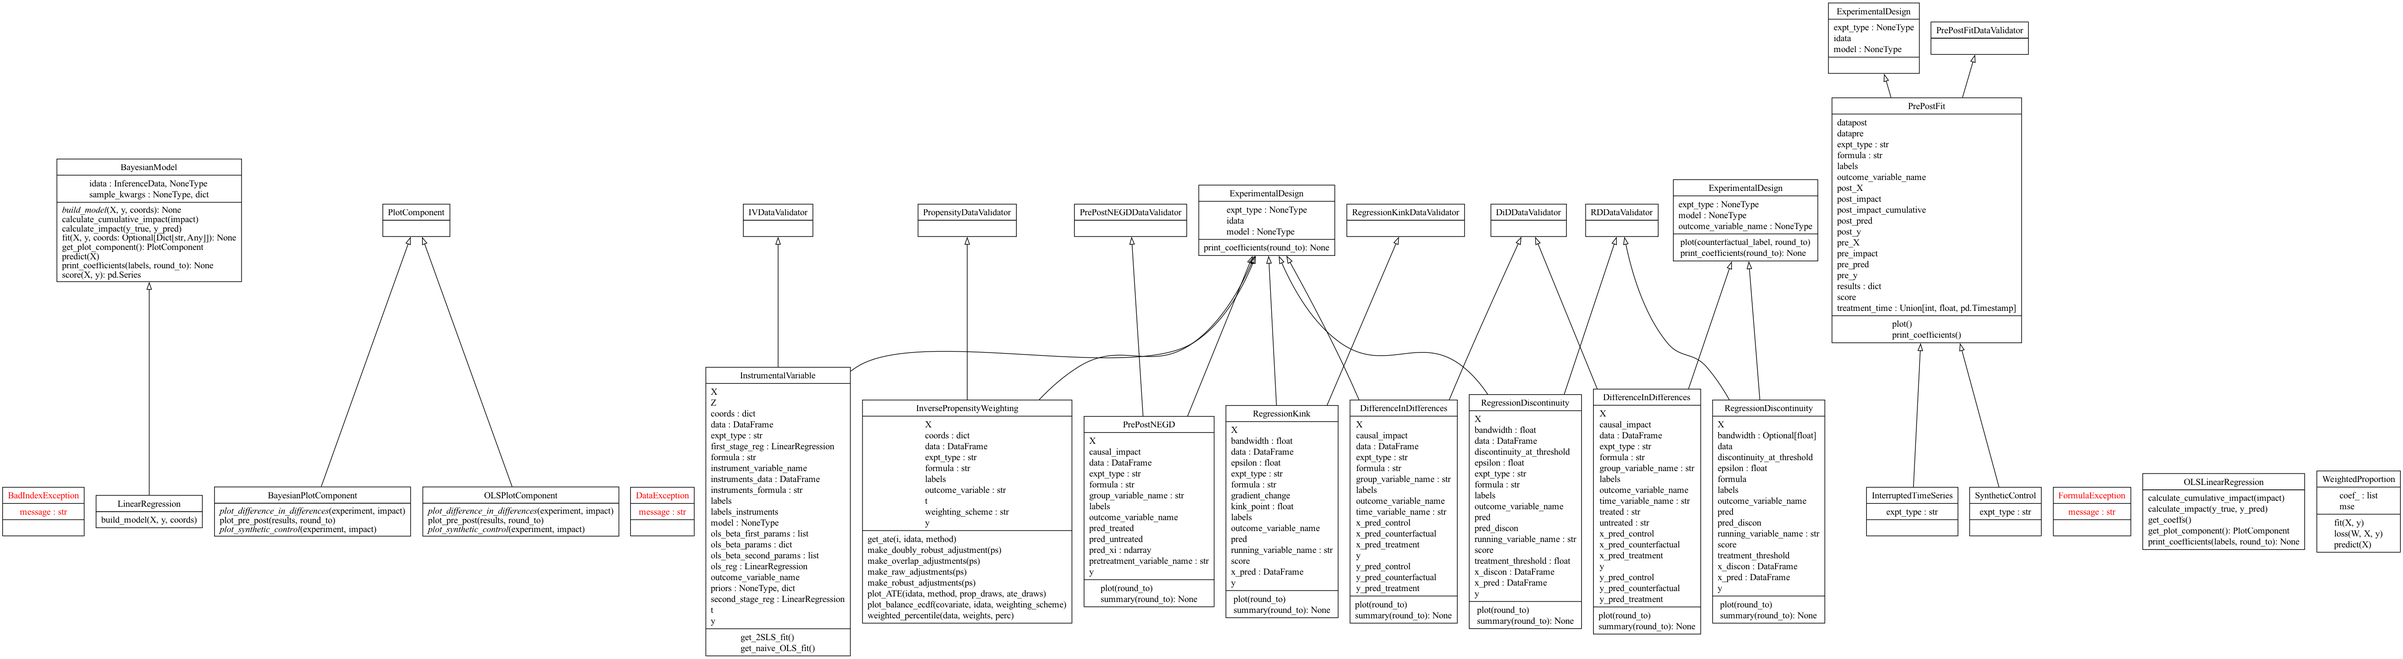
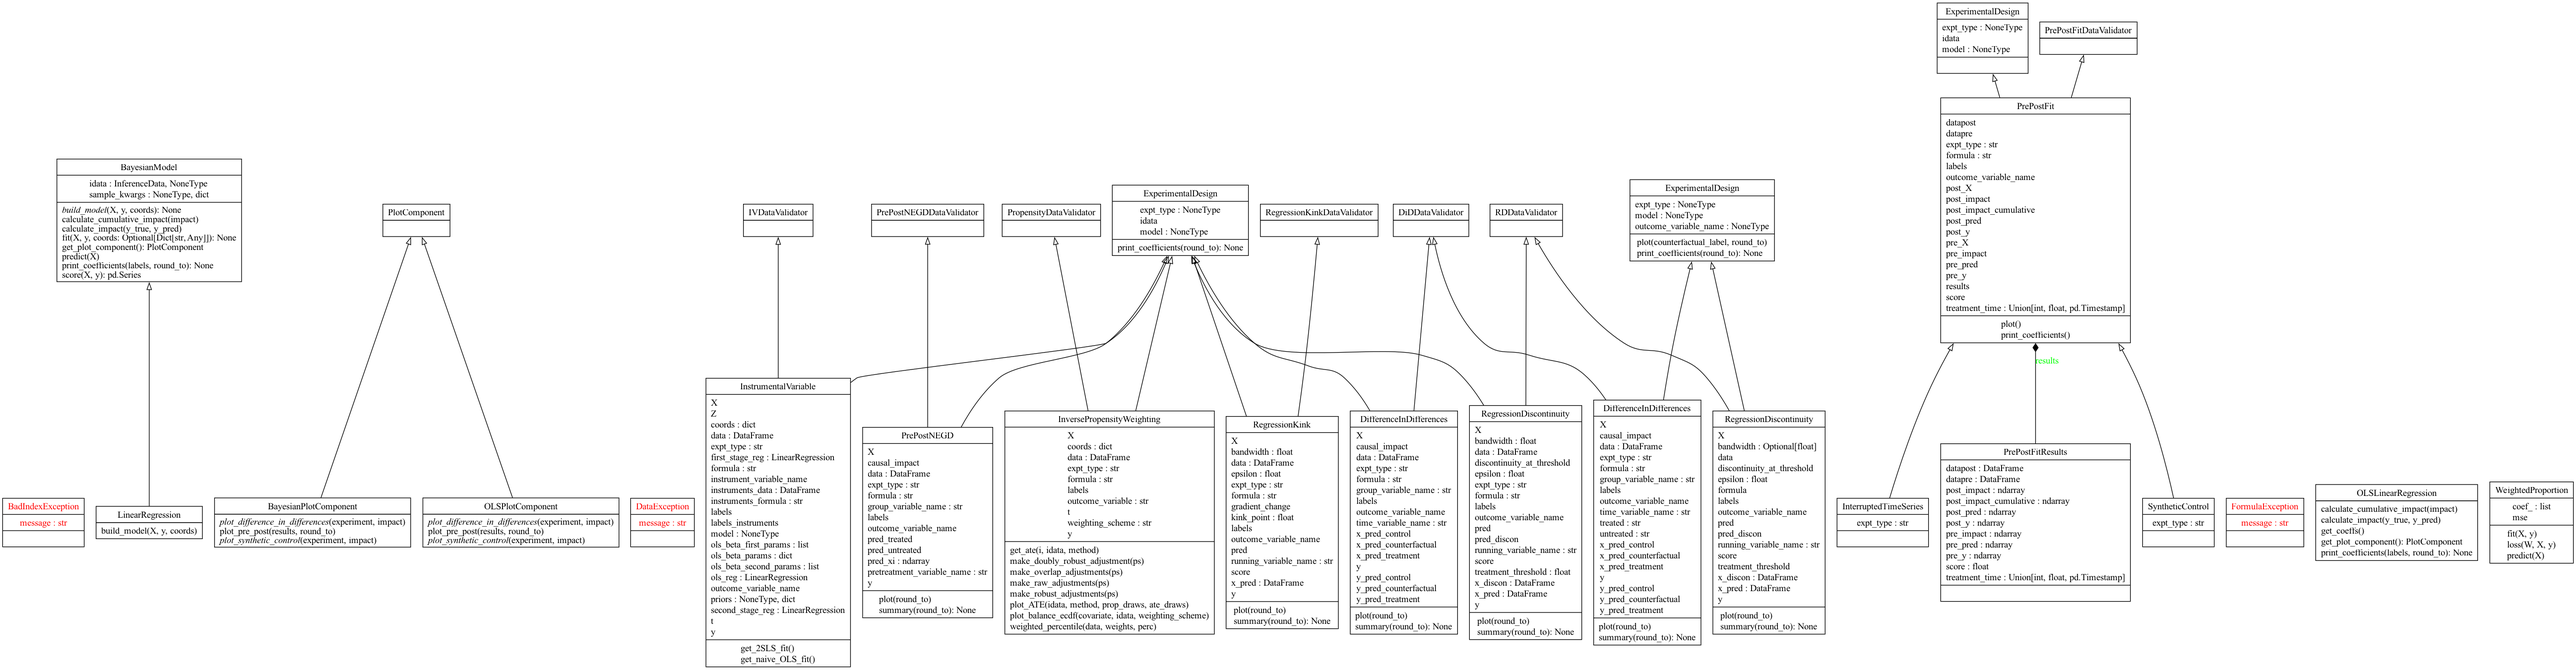
change from dict to dataclass

diff --git a/causalpy/experiments.py b/causalpy/experiments.py
@@ -11,6 +11,7 @@
 #   WITHOUT WARRANTIES OR CONDITIONS OF ANY KIND, either express or implied.
 #   See the License for the specific language governing permissions and
 #   limitations under the License.
+from dataclasses import dataclass
 from typing import Union
 
 import numpy as np
@@ -88,22 +89,6 @@ class PrePostFit(ExperimentalDesign, PrePostFitDataValidator):
 
         # calculate the counterfactual
         self.post_pred = self.model.predict(X=self.post_X)
-
-        # # causal impact pre (ie the residuals of the model fit to observed)
-        # pre_data = xr.DataArray(self.pre_y[:, 0], dims=["obs_ind"])
-        # self.pre_impact = (
-        #     pre_data - self.pre_pred["posterior_predictive"]["y_hat"]
-        # ).transpose(..., "obs_ind")
-
-        # # causal impact post (ie the residuals of the model fit to observed)
-        # post_data = xr.DataArray(self.post_y[:, 0], dims=["obs_ind"])
-        # self.post_impact = (
-        #     post_data - self.post_pred["posterior_predictive"]["y_hat"]
-        # ).transpose(..., "obs_ind")
-
-        # cumulative impact post
-        # self.post_impact_cumulative = self.post_impact.cumsum(dim="obs_ind")
-
         self.pre_impact = self.model.calculate_impact(self.pre_y[:, 0], self.pre_pred)
         self.post_impact = self.model.calculate_impact(
             self.post_y[:, 0], self.post_pred
@@ -112,20 +97,33 @@ class PrePostFit(ExperimentalDesign, PrePostFitDataValidator):
             self.post_impact
         )
 
-        # package results for easy access
-        self.results = {
-            "datapre": self.datapre,
-            "datapost": self.datapost,
-            "pre_y": self.pre_y,
-            "post_y": self.post_y,
-            "pre_pred": self.pre_pred,
-            "post_pred": self.post_pred,
-            "pre_impact": self.pre_impact,
-            "post_impact": self.post_impact,
-            "post_impact_cumulative": self.post_impact_cumulative,
-            "treatment_time": self.treatment_time,
-            "score": self.score,
-        }
+        @dataclass
+        class PrePostFitResults:
+            datapre: pd.DataFrame
+            datapost: pd.DataFrame
+            pre_y: np.ndarray
+            post_y: np.ndarray
+            pre_pred: np.ndarray
+            post_pred: np.ndarray
+            pre_impact: np.ndarray
+            post_impact: np.ndarray
+            post_impact_cumulative: np.ndarray
+            treatment_time: Union[int, float, pd.Timestamp]
+            score: float
+
+        self.results = PrePostFitResults(
+            datapre=self.datapre,
+            datapost=self.datapost,
+            pre_y=self.pre_y,
+            post_y=self.post_y,
+            pre_pred=self.pre_pred,
+            post_pred=self.post_pred,
+            pre_impact=self.pre_impact,
+            post_impact=self.post_impact,
+            post_impact_cumulative=self.post_impact_cumulative,
+            treatment_time=self.treatment_time,
+            score=self.score,
+        )
 
     def plot(self):
         # Get a BayesianPlotComponent or OLSPlotComponent depending on the model

diff --git a/causalpy/plotting.py b/causalpy/plotting.py
@@ -30,18 +30,17 @@ class PlotComponent(ABC):
 
 class BayesianPlotComponent(PlotComponent):
     def plot_pre_post(self, results, round_to=None):
-        # unpack results dictionary
-        datapre = results["datapre"]
-        datapost = results["datapost"]
-        pre_y = results["pre_y"]
-        post_y = results["post_y"]
-        pre_pred = results["pre_pred"]
-        post_pred = results["post_pred"]
-        pre_impact = results["pre_impact"]
-        post_impact = results["post_impact"]
-        post_impact_cumulative = results["post_impact_cumulative"]
-        treatment_time = results["treatment_time"]
-        score = results["score"]
+        datapre = results.datapre
+        datapost = results.datapost
+        pre_y = results.pre_y
+        post_y = results.post_y
+        pre_pred = results.pre_pred
+        post_pred = results.post_pred
+        pre_impact = results.pre_impact
+        post_impact = results.post_impact
+        post_impact_cumulative = results.post_impact_cumulative
+        treatment_time = results.treatment_time
+        score = results.score
 
         counterfactual_label = "Counterfactual"
         # datapre, datapost, pre_y, post_y, pre_pred, treatment_time
@@ -153,18 +152,17 @@ class BayesianPlotComponent(PlotComponent):
 
 class OLSPlotComponent(PlotComponent):
     def plot_pre_post(self, results, round_to=None):
-        # unpack results dictionary
-        datapre = results["datapre"]
-        datapost = results["datapost"]
-        pre_y = results["pre_y"]
-        post_y = results["post_y"]
-        pre_pred = results["pre_pred"]
-        post_pred = results["post_pred"]
-        pre_impact = results["pre_impact"]
-        post_impact = results["post_impact"]
-        post_impact_cumulative = results["post_impact_cumulative"]
-        treatment_time = results["treatment_time"]
-        score = results["score"]
+        datapre = results.datapre
+        datapost = results.datapost
+        pre_y = results.pre_y
+        post_y = results.post_y
+        pre_pred = results.pre_pred
+        post_pred = results.post_pred
+        pre_impact = results.pre_impact
+        post_impact = results.post_impact
+        post_impact_cumulative = results.post_impact_cumulative
+        treatment_time = results.treatment_time
+        score = results.score
 
         counterfactual_label = "Counterfactual"
 
